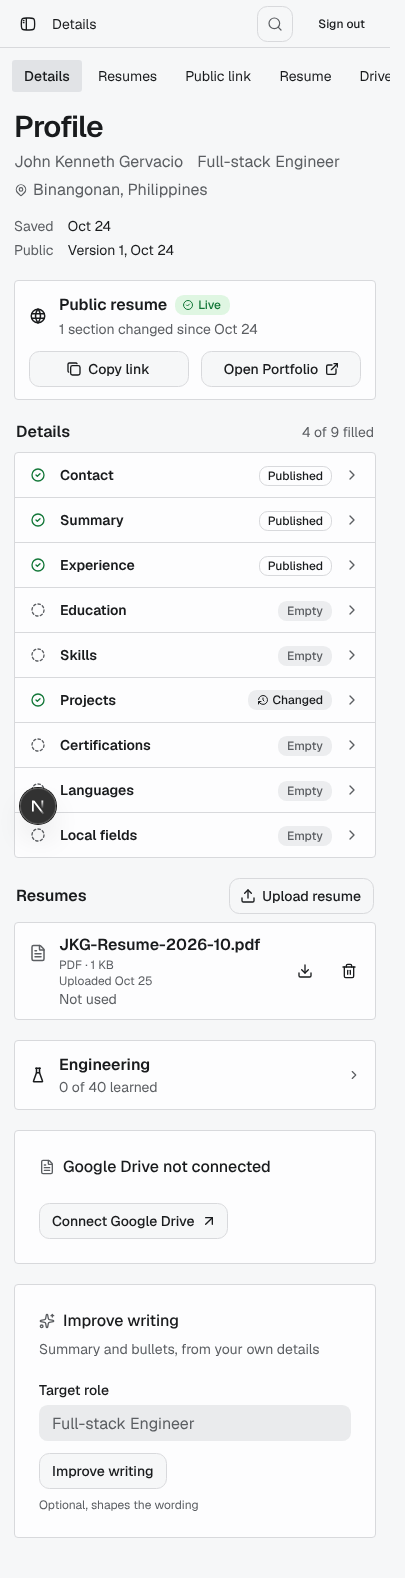
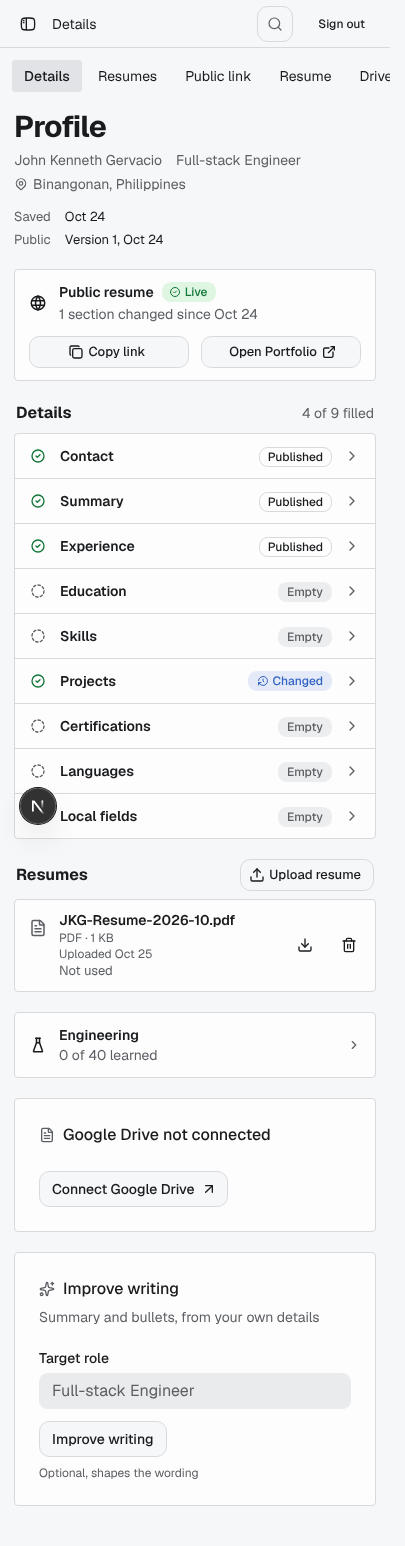
Match the Ledger frame's type, button sizes and blue Changed badge
Measured against a-ledger.html at 1440px: the page body was 16px (frame 14px),
buttons 36px (32px), headings 600 (700) and facts 14px (13px). Changed is blue
again at the owner's call.

Claude-Session: https://claude.ai/code/session_01X7a8fG9bLdnrKKphzPaoj1

diff --git a/apps/web/src/components/profile/profile-ledger.tsx b/apps/web/src/components/profile/profile-ledger.tsx
@@ -43,9 +43,12 @@ export function StateBadge({ state }: { state: LedgerState }) {
   const Icon = state in stateIcons ? stateIcons[state as keyof typeof stateIcons] : null;
   return (
     <Badge
-      // Neutral fills: blue marks the picked row (DESIGN.md), so no state borrows it.
-      variant={state === "unsaved" || state === "changed" ? "secondary" : state === "empty" ? "default" : "outline"}
-      className={cn(state === "empty" && "bg-muted text-muted-foreground")}
+      variant={state === "unsaved" ? "secondary" : state === "changed" || state === "empty" ? "default" : "outline"}
+      className={cn(
+        // Blue, as the Ledger frame draws it: the owner chose this over DESIGN.md's blue-only-for-selection rule.
+        state === "changed" && "bg-selected/12 text-selected",
+        state === "empty" && "bg-muted text-muted-foreground",
+      )}
     >
       {/* No data-icon: the row is a Button, which would pad itself for an icon it finds inside. */}
       {Icon && <Icon aria-hidden="true" />}
@@ -67,7 +70,7 @@ export function LedgerList({
   return (
     <section aria-labelledby="ledger-title">
       <div className="mb-2 flex items-baseline justify-between px-0.5">
-        <h2 id="ledger-title" className="font-heading text-base font-semibold">
+        <h2 id="ledger-title" className="font-heading text-base font-bold">
           Details
         </h2>
         <span className="text-sm text-muted-foreground">
@@ -181,12 +184,18 @@ export function PublicResumeBar({
         </p>
       </div>
       {live && (
-        <Button type="button" variant="outline" className="max-md:flex-1" onClick={() => void copy()}>
+        <Button
+          type="button"
+          variant="outline"
+          size="sm"
+          className="text-[13px] max-md:flex-1"
+          onClick={() => void copy()}
+        >
           <IconCopy data-icon="inline-start" aria-hidden="true" />
           Copy link
         </Button>
       )}
-      <Button asChild variant="outline" className="max-md:flex-1">
+      <Button asChild variant="outline" size="sm" className="text-[13px] max-md:flex-1">
         <Link href="/portfolio">
           Open Portfolio
           <IconExternalLink data-icon="inline-end" aria-hidden="true" />

diff --git a/apps/web/src/components/profile/resume-files.tsx b/apps/web/src/components/profile/resume-files.tsx
@@ -72,7 +72,7 @@ export function ResumeFiles({
   return (
     <section id="resumes" aria-labelledby="resumes-title" className="scroll-mt-24">
       <div className="mb-2 flex items-center justify-between px-0.5">
-        <h2 id="resumes-title" className="font-heading text-base font-semibold">
+        <h2 id="resumes-title" className="font-heading text-base font-bold">
           Resumes
         </h2>
         <Input
@@ -87,7 +87,14 @@ export function ResumeFiles({
             if (file) void upload(file);
           }}
         />
-        <Button type="button" variant="outline" onClick={() => input.current?.click()} disabled={busy !== null}>
+        <Button
+          type="button"
+          variant="outline"
+          size="sm"
+          className="text-[13px]"
+          onClick={() => input.current?.click()}
+          disabled={busy !== null}
+        >
           <Upload data-icon="inline-start" aria-hidden="true" />
           {busy === "upload" ? "Uploading…" : "Upload resume"}
         </Button>
@@ -131,7 +138,7 @@ export function ResumeFiles({
                   Uploaded {shortDate(file.uploadedAt)}
                 </span>
                 {/* Autofill isn't built yet, so no file has filled the details. */}
-                <span className="col-start-2 text-sm text-muted-foreground md:col-start-auto">Not used</span>
+                <span className="col-start-2 text-[13px] text-muted-foreground md:col-start-auto">Not used</span>
                 <div className="col-start-3 row-span-3 row-start-1 flex gap-2 md:col-start-auto md:row-span-1 md:row-start-auto">
                   <Button asChild variant="ghost" size="icon" aria-label={`Download ${file.fileName}`} title="Download">
                     <a href={`${href}?download=1`} download={file.fileName}>

diff --git a/apps/web/src/components/profile/profile-workspace.tsx b/apps/web/src/components/profile/profile-workspace.tsx
@@ -77,7 +77,7 @@ function ProfileHeading({
   return (
     <div className="block items-end justify-between gap-6 md:flex">
       <div className="min-w-0">
-        <h1 className="font-heading text-3xl leading-none font-semibold tracking-tight">Profile</h1>
+        <h1 className="font-heading text-3xl leading-none font-bold tracking-tight">Profile</h1>
         <p className="mt-2 flex flex-wrap gap-x-3.5 gap-y-1 text-muted-foreground">
           {fullName && <span>{fullName}</span>}
           {headline && <span>{headline}</span>}
@@ -89,7 +89,7 @@ function ProfileHeading({
           )}
         </p>
       </div>
-      <dl className="mt-3.5 grid shrink-0 grid-cols-[auto_auto] justify-start gap-x-3.5 gap-y-1 text-sm md:mt-0">
+      <dl className="mt-3.5 grid shrink-0 grid-cols-[auto_auto] justify-start gap-x-3.5 gap-y-1 text-[13px] md:mt-0">
         <dt className="text-muted-foreground">Saved</dt>
         <dd>{savedAt ? shortDate(savedAt) : "Not saved"}</dd>
         <dt className="text-muted-foreground">Public</dt>
@@ -289,7 +289,7 @@ export function ProfileWorkspace({
     >
       <div className="flex min-w-0 items-start">
         <div className="min-w-0 flex-1">
-          <div className="mx-auto max-w-5xl px-3.5 pt-5 pb-10 md:px-7 md:pt-7 md:pb-12">
+          <div className="mx-auto max-w-5xl px-3.5 pt-5 pb-10 text-sm md:px-7 md:pt-7 md:pb-12">
             <div className="flex flex-col gap-5">
               <ProfileHeading
                 fullName={fullName}

diff --git a/docs/mockups/profile.md b/docs/mockups/profile.md
@@ -82,8 +82,8 @@ None.
   when the whole Profile was saved. There is no separate Phone row: the phone is part of Contact and never published.
   Each resume row shows Not used and Download and Delete until Autofill exists. The section column keeps Resume and
   Drive file until those pages are dropped.
-- **After the Impeccable critique** (25 Oct 2026). Changed is a neutral badge, since blue marks only the picked row
-  (DESIGN.md). One Save still covers every section: the panel says how many sections are unsaved, Discard asks first,
+- **After the Impeccable critique** (25 Oct 2026). Changed was made neutral, then the owner put it back to the
+  frame's blue (an accepted exception to DESIGN.md's blue-only-for-selection rule). One Save still covers every section: the panel says how many sections are unsaved, Discard asks first,
   and leaving with edits warns. The open section is in `?section=`, so a refresh keeps it and Back closes it.
 - **Delete allowed.** A stored resume can be deleted (resume uploads, PR #147).
 - **No Drive.** Resumes come only from Upload; choosing a file in Google Drive is dropped, and Drive is no longer a
